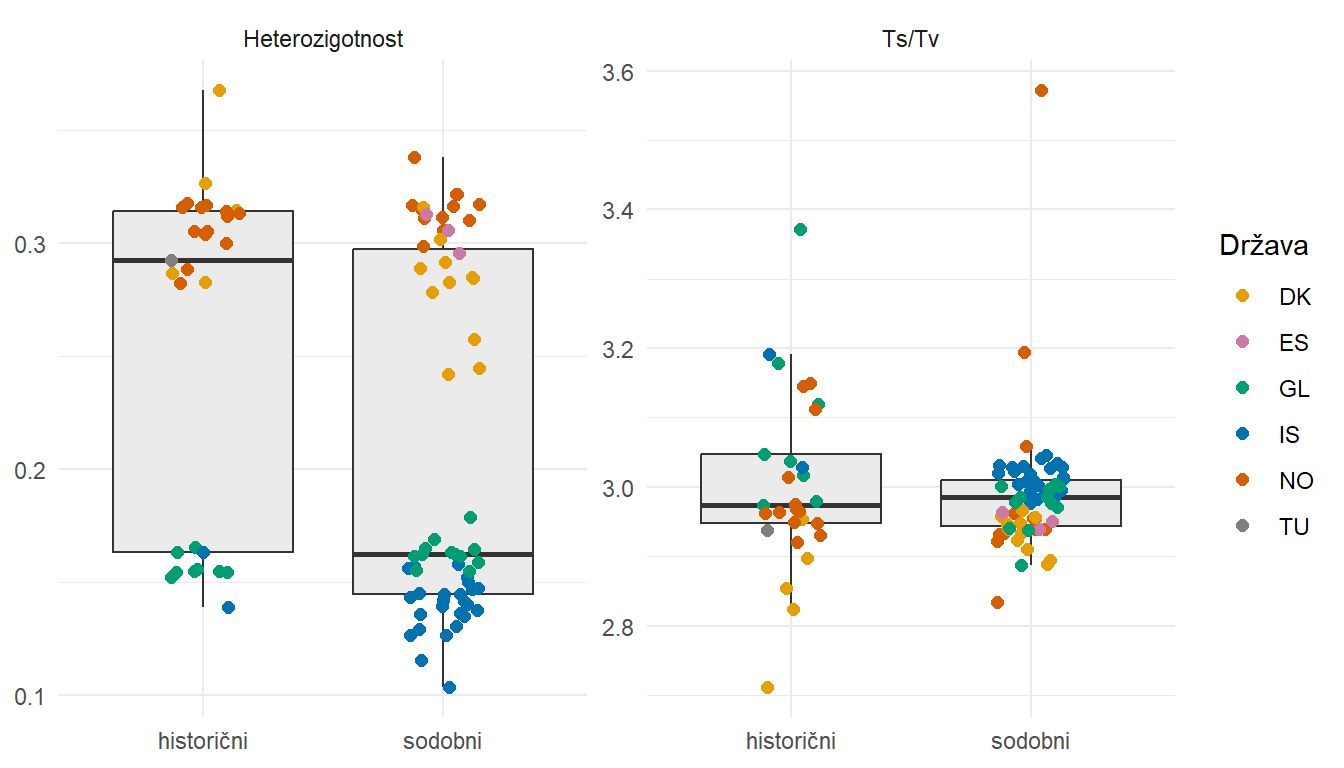
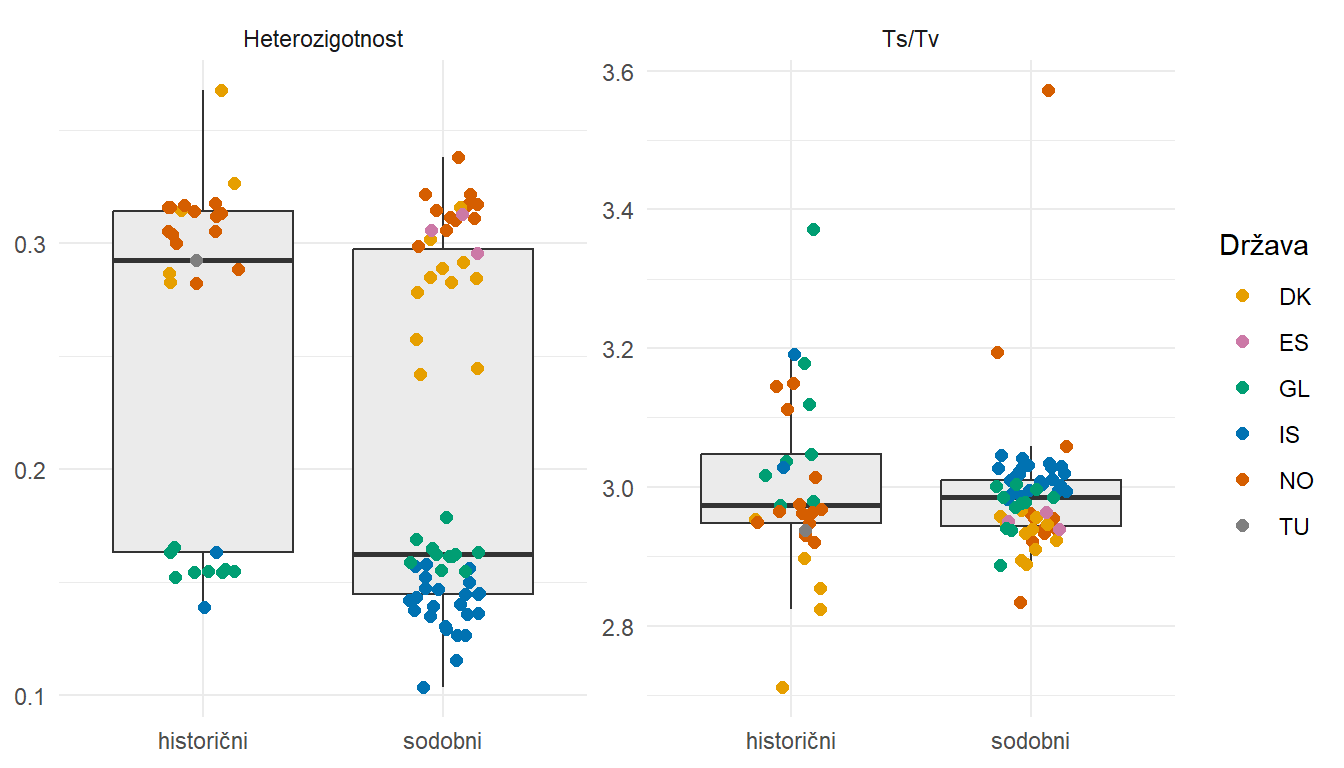
Vaja 1: skrite mape in .git

diff --git a/E1_version_control_EN/E1_version_control_EN.html b/E1_version_control_EN/E1_version_control_EN.html
@@ -648,7 +648,9 @@ pre > code.sourceCode > span > a:first-child::before { text-decoration: underlin
 <p>Keep all repositories in one folder, e.g.&nbsp;<code>GitHub</code> in your home folder (<code>C:/Users/name/GitHub</code>):</p>
 <pre class="text"><code>GitHub/
 ├── git-practice/
-└── EPG-2026-surname/</code></pre>
+│   └── .git/              # hidden folder: every repository has its own
+└── EPG-2026-surname/
+    └── .git/</code></pre>
 <div class="callout callout-style-default callout-warning callout-titled">
 <div class="callout-header d-flex align-content-center">
 <div class="callout-icon-container">
@@ -755,11 +757,54 @@ Receiving objects: 100% (3/3), done.</code></pre>
 <i class="callout-icon"></i>
 </div>
 <div class="callout-title-container flex-fill">
-<span class="screen-reader-only">Nasvet</span>Hidden folders in Explorer and Finder
+<span class="screen-reader-only">Nasvet</span>How to see hidden folders
 </div>
 </div>
 <div class="callout-body-container callout-body">
-<p>The <code>.git</code> folder is hidden. On Windows you see it in File Explorer via <em>View → Show → Hidden items</em>; on macOS in Finder with Cmd + Shift + period.</p>
+<p>The <code>.git</code> folder is hidden (all files and folders starting with a dot are hidden). Every repository must have it: if a folder does not contain it, the folder is <strong>not</strong> a Git repository. You can see hidden folders like this:</p>
+<table class="caption-top table">
+<colgroup>
+<col style="width: 50%">
+<col style="width: 50%">
+</colgroup>
+<thead>
+<tr class="header">
+<th>Where</th>
+<th>Command or setting</th>
+</tr>
+</thead>
+<tbody>
+<tr class="odd">
+<td>Git Bash, terminal on macOS/Linux</td>
+<td><code>ls -a</code> (all files), <code>ls -la</code> (all, with details)</td>
+</tr>
+<tr class="even">
+<td>Windows PowerShell</td>
+<td><code>Get-ChildItem -Force</code> (or <code>dir -Force</code>)</td>
+</tr>
+<tr class="odd">
+<td>Windows command prompt (cmd)</td>
+<td><code>dir /a</code></td>
+</tr>
+<tr class="even">
+<td>R</td>
+<td><code>list.files(all.files = TRUE)</code></td>
+</tr>
+<tr class="odd">
+<td>RStudio, <em>Files</em> tab</td>
+<td>gear icon (<em>More</em>) → <em>Show Hidden Files</em></td>
+</tr>
+<tr class="even">
+<td>File Explorer (Windows)</td>
+<td><em>View → Show → Hidden items</em></td>
+</tr>
+<tr class="odd">
+<td>Finder (macOS)</td>
+<td>Cmd + Shift + period</td>
+</tr>
+</tbody>
+</table>
+<p>You can also check whether a folder is a repository with <code>git status</code>: outside a repository it prints <code>fatal: not a git repository</code>.</p>
 </div>
 </div>
 </section>
@@ -1106,8 +1151,10 @@ c82b3ae Initial commit</code></pre>
 <h3 class="anchored" data-anchor-id="repository-structure">Repository structure</h3>
 <p>Create folders for all practicals. Git does not track empty folders, so they will appear on GitHub only after you save the first file in them.</p>
 <pre class="text"><code>EPG-2026-surname/
-├── README.md              # who you are, what is in the repository
+├── .git/                  # hidden folder with the history (created by Git, do not edit)
 ├── .gitignore             # files that Git does not upload to GitHub
+├── .Rproj.user/           # hidden folder with RStudio settings (in .gitignore)
+├── README.md              # who you are, what is in the repository
 ├── EPG-2026-surname.Rproj
 ├── E1_git/
 ├── E2_plink/

diff --git a/E1_nadzor_razlicic/E1_nadzor_razlicic.html b/E1_nadzor_razlicic/E1_nadzor_razlicic.html
@@ -648,7 +648,9 @@ pre > code.sourceCode > span > a:first-child::before { text-decoration: underlin
 <p>Vse repozitorije imejte v eni mapi, npr. <code>GitHub</code> v vaši domači mapi (<code>C:/Users/ime/GitHub</code>):</p>
 <pre class="text"><code>GitHub/
 ├── git-vaja/
-└── EPG-2026-priimek/</code></pre>
+│   └── .git/              # skrita mapa: vsak repozitorij ima svojo
+└── EPG-2026-priimek/
+    └── .git/</code></pre>
 <div class="callout callout-style-default callout-warning callout-titled">
 <div class="callout-header d-flex align-content-center">
 <div class="callout-icon-container">
@@ -755,11 +757,54 @@ Receiving objects: 100% (3/3), done.</code></pre>
 <i class="callout-icon"></i>
 </div>
 <div class="callout-title-container flex-fill">
-<span class="screen-reader-only">Nasvet</span>Skrite mape v Raziskovalcu in Finderju
+<span class="screen-reader-only">Nasvet</span>Kako vidimo skrite mape
 </div>
 </div>
 <div class="callout-body-container callout-body">
-<p>Mapa <code>.git</code> je skrita. Na Windows jo vidite v Raziskovalcu z <em>Pogled → Pokaži → Skriti elementi</em> (<em>View → Show → Hidden items</em>), na macOS v Finderju s Cmd + Shift + pika.</p>
+<p>Mapa <code>.git</code> je skrita (vse datoteke in mape, ki se začnejo s piko, so skrite). Vsak repozitorij jo mora imeti: če je v mapi ni, mapa <strong>ni</strong> Git repozitorij. Skrite mape vidite takole:</p>
+<table class="caption-top table">
+<colgroup>
+<col style="width: 50%">
+<col style="width: 50%">
+</colgroup>
+<thead>
+<tr class="header">
+<th>Kje</th>
+<th>Ukaz ali nastavitev</th>
+</tr>
+</thead>
+<tbody>
+<tr class="odd">
+<td>Git Bash, terminal na macOS/Linuxu</td>
+<td><code>ls -a</code> (vse datoteke), <code>ls -la</code> (vse, s podrobnostmi)</td>
+</tr>
+<tr class="even">
+<td>Windows PowerShell</td>
+<td><code>Get-ChildItem -Force</code> (ali <code>dir -Force</code>)</td>
+</tr>
+<tr class="odd">
+<td>Windows ukazna vrstica (cmd)</td>
+<td><code>dir /a</code></td>
+</tr>
+<tr class="even">
+<td>R</td>
+<td><code>list.files(all.files = TRUE)</code></td>
+</tr>
+<tr class="odd">
+<td>RStudio, zavihek <em>Files</em></td>
+<td>ikona zobnika (<em>More</em>) → <em>Show Hidden Files</em></td>
+</tr>
+<tr class="even">
+<td>Raziskovalec (Windows)</td>
+<td><em>Pogled → Pokaži → Skriti elementi</em> (<em>View → Show → Hidden items</em>)</td>
+</tr>
+<tr class="odd">
+<td>Finder (macOS)</td>
+<td>Cmd + Shift + pika</td>
+</tr>
+</tbody>
+</table>
+<p>Ali je mapa repozitorij, preverite tudi z <code>git status</code>: zunaj repozitorija izpiše <code>fatal: not a git repository</code>.</p>
 </div>
 </div>
 </section>
@@ -1111,8 +1156,10 @@ c82b3ae Initial commit</code></pre>
 <h3 class="anchored" data-anchor-id="struktura-repozitorija">Struktura repozitorija</h3>
 <p>Ustvarite mape za vse vaje. Prazne mape Git ne spremlja, zato bodo na GitHubu vidne šele, ko vanje shranite prvo datoteko.</p>
 <pre class="text"><code>EPG-2026-priimek/
-├── README.md              # kdo ste, kaj je v repozitoriju
+├── .git/                  # skrita mapa z zgodovino (ustvari jo Git, ne urejajte je)
 ├── .gitignore             # datoteke, ki jih Git ne nalaga na GitHub
+├── .Rproj.user/           # skrita mapa z nastavitvami RStudia (v .gitignore)
+├── README.md              # kdo ste, kaj je v repozitoriju
 ├── EPG-2026-priimek.Rproj
 ├── E1_git/
 ├── E2_plink/
